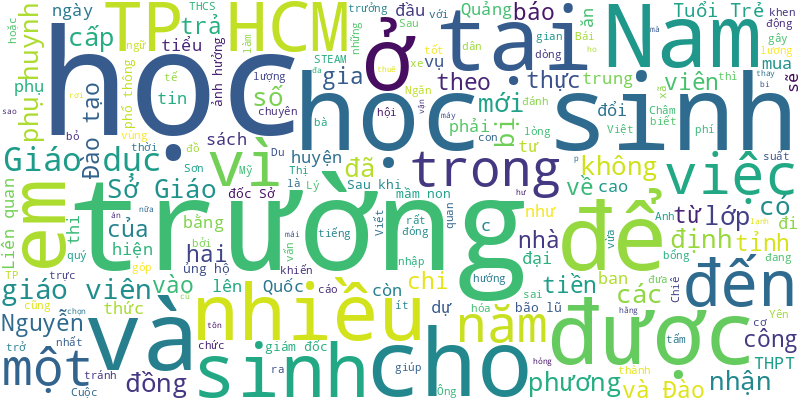
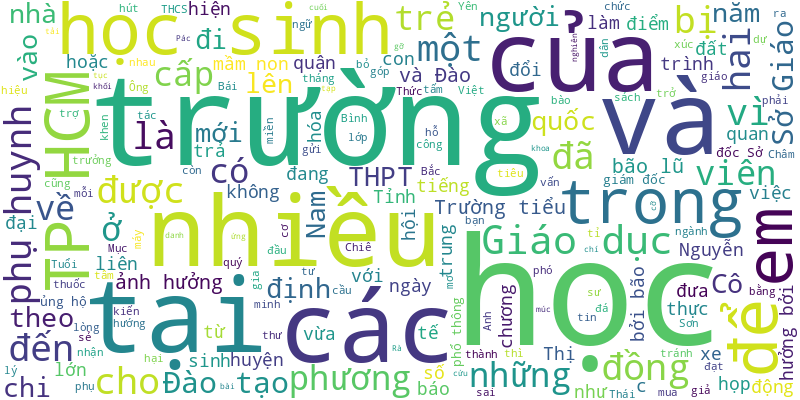
🍀 = 70%

diff --git a/README.md b/README.md
@@ -1,6 +1,17 @@
 # Tuoi Tre RSS 
 
 ## Giáo dục 
+- Nhiều tạp chí quốc tế gỡ bỏ bài báo khoa học của tác giả Việt Nam, từ các nhà nghiên cứu danh tiếng đến các ứng viên giáo sư, phó giáo sư.
+- Những ngày cuối tháng 9, tại điểm trường mầm non Pác Rà, máy xúc đang múc liên tục những khối đất đá lên các xe tải cỡ lớn. Phía trong điểm trường, đất đá ngổn ngang, gương kính vỡ nát...
+- Nhìn người lớn hút thuốc lá điện tử, trẻ em nghĩ không có hại, hoặc hút thuốc để chứng minh mình đã lớn.
+- Nhiều ý kiến giải quyết bạo lực học đường được chính các đại biểu nhí nêu ra trong phiên họp giả định Quốc hội trẻ em.
+- Cô giáo H. (Trường tiểu học Chương Dương, quận 1, TP.HCM), người xin phụ huynh hỗ trợ mua laptop, đã bị tạm đình chỉ đứng lớp theo yêu cầu của Phòng Giáo dục và Đào tạo quận.
+- Thích nghi với toàn cầu hóa, nhiều chương trình học các cấp đã đưa hoạt động giáo dục STEAM vào trong nhà trường và đạt được nhiều hiệu quả tích cực.
+- Thức dậy, cắp sách tới trường là việc làm thường ngày của mỗi học sinh nhưng lại là ước mơ cháy bỏng của cô bé Đặng Khánh Linh...
+- Mục tiêu giai đoạn 2025 - 2030, tỉ lệ người theo học các ngành STEM đạt 35% ở mỗi trình độ đào tạo.
+- Hơn 35 triệu đồng là tấm lòng thầy trò và phụ huynh của Trường THCS-THPT Thái Bình gửi đến đồng bào miền Bắc bị ảnh hưởng bởi bão lũ.
+- Hai nữ sinh Trường THPT Nguyễn Thị Minh Khai (quận 3, TP.HCM) đã làm hai hộp thư tại trường, để những bạn gặp vướng mắc tâm lý có thể gửi thư chia sẻ.
+- Cô bạn thân của tôi đi họp phụ huynh cho con về và “khoe” vừa rời cuộc họp về đến nhà là được đưa vào 3 nhóm Zalo khác nhau.
 - Vì sao rất nhiều trường THPT tại TP.HCM chọn phương án thuê máy lạnh bằng phương thức xã hội hóa thay vì vận động phụ huynh góp tiền để mua?
 - "Chiếc xe đạp cũ mà hai chị em hằng ngày đi học bị mái tôn rơi vào làm hư hỏng, không còn đi được nữa. Em mong có chiếc xe đạp mới để hai chị em đèo nhau đi học".
 - Liên quan đến những thông tin học sinh tại điểm trường Màng Mủ ăn cơm gừng chấm muối, huyện Mù Cang Chải (Yên Bái) vừa có báo cáo sự việc lên UBND tỉnh Yên Bái.
@@ -20,51 +31,41 @@
 - Trả lời phỏng vấn Tuổi Trẻ, GS AARON VOON-YEW THEAN - hiệu trưởng ĐH Quốc gia Singapore - nhận định nhiều trường đại học Việt Nam đang đổi mới chương trình khá tốt theo phương châm hướng về sinh viên.
 - Nhiều chuyên gia tư vấn cần xác định mục tiêu ngay từ đầu năm nhất để tránh phải trả giá bằng việc thôi học giữa chừng hoặc chuyển đổi ngành học hoặc… học đại để ra trường.
 - Theo Bộ trưởng Nguyễn Kim Sơn, để thực hiện được nhiệm vụ đưa tiếng Anh trở thành ngôn ngữ thứ hai trong trường học thì nâng cao chất lượng giáo viên tiếng Anh là hết sức quan trọng.
-- Nhận suất học bổng Ngăn dòng bỏ học từ báo Tuổi Trẻ, nhiều học sinh vùng lũ ở Cao Bằng cho biết sẽ dành số tiền 3 triệu đồng để mua sách vở và đưa bố mẹ để có thêm tiền dựng nhà cửa.
-- Liên quan vụ việc nam phụ huynh xông vào lớp đánh học sinh lớp 8, chiều 25-9, lãnh đạo Phòng Giáo dục và Đào tạo TP Tam Kỳ, Quảng Nam cho biết đã nhận được báo cáo của Trường THCS Nguyễn Du, nơi xảy ra vụ việc.
-- Cuộc thi “STEAM for Girls - STEAM xanh cho nữ sinh 2024” sẽ chính thức khai mạc vào ngày 30-9, tại Victoria School - Nam Sài Gòn (TP.HCM) và kéo dài đến ngày 4-10-2024.
-- Áp lực từ hồ sơ sổ sách, các cuộc thi đến cả trực đêm ở trường khiến giáo viên không còn thời gian để đầu tư cho việc giảng dạy, theo chuyên gia.
-- Sau khi ăn thức ăn mua ở căng tin trường, 23 em học sinh phải nhập viện, nghi bị ngộ độc thực phẩm.
-- Úc đã quyết định giảm thiểu số lượng du học sinh trong năm 2025 xuống đáng kể, khiến không ít sinh viên Việt Nam lo lắng.
-- Sinh viên khó khăn được mượn tiền đóng học phí, không tính lãi, trả gốc sau 2 năm tốt nghiệp.
-- Sau khi nhà trường mời đến làm việc, phụ huynh đánh học sinh lớp 8 ở Quảng Nam cho hay rất hối hận và nhận lỗi.
-- Sau khi Tuổi Trẻ Online đăng bài viết về Nguyễn Tuấn Kiệt (lớp 12A1 Trường THPT Phú Mỹ, tỉnh Bà Rịa - Vũng Tàu), nhiều tấm lòng vàng đã giúp nam sinh này được nhập học.
-- Dự thảo Luật Nhà giáo quy định lương giáo viên được xếp cao nhất trong hệ thống thang bậc lương, được hưởng các phụ cấp và giáo viên mầm non được nghỉ hưu sớm.
-- Ban quản lý ký túc xá Đại học Quốc gia TP.HCM nói phơi đồ ở ban công gây mất mỹ quan, nhưng theo sinh viên, ban công mới có đủ nắng, gió để đồ khô.
 ![Edu](Edu.png)
 ## Thời Sự 
-- Sáng 28-9, Thủ tướng Phạm Minh Chính chủ trì Hội nghị trực tuyến sơ kết, đánh giá, rút kinh nghiệm về công tác phòng chống và khắc phục hậu quả bão số 3.
-- Sáng 28-9, Bộ trưởng Bộ Nội vụ Phạm Thị Thanh Trà đã trình Ủy ban Thường vụ Quốc hội cho ý kiến về đề án thành lập thành phố Huế trực thuộc trung ương.
-- "Tôi áy náy khi nhận bằng khen này vì việc mình làm vừa qua chỉ là bổn phận một người dân bình thường..." - thầy Lê Ngọc Thạch nói tại buổi trao ngày 27-9.
-- Cùng một ngày, Sở Y tế tỉnh Bình Phước và TP.HCM đồng loạt ra thông báo khẩn về việc bị mạo danh để kiểm tra các cơ sở sản xuất, kinh doanh thực phẩm.
-- Khi đoàn tàu gồm 24 toa hàng đến đoạn đường sắt thuộc địa phận thị trấn Lăng Cô (huyện Phú Lộc, Thừa Thiên Huế) thì đầu máy bất ngờ bị trật bánh trong đêm.
-- Một số tin tức đáng chú ý: TP.HCM cấm xe đi 5 đường quận 1 lúc diễn tập xử lý tình huống cháy, nổ; Còn một số quận, huyện ở TP.HCM có tỉ lệ tiêm vắc xin sởi thấp; Saigon Glory mua lại trước hạn hàng trăm tỉ đồng trái phiếu khi đổi chủ...
-- Hôm nay 28-9, thời tiết cả nước ngày nắng, về chiều tối mưa dông, mưa chủ yếu tập trung ở miền Tây Nam Bộ.
-- Sau 17 ngày, lực lượng chức năng tỉnh Lào Cai đã tìm thấy thêm thi thể chị Hoàng Thị Q. (34 tuổi) - nạn nhân mất tích trong vụ lũ quét kinh hoàng tại Làng Nủ.
-- Báo cáo với Hội đồng nhân dân TP.HCM, UBND TP khẳng định sẽ ban hành bảng giá đất điều chỉnh trước ngày 15-10-2024.
-- Việc giải tỏa mặt bằng trong khu đô thị Đại học Quốc gia TP.HCM (làng đại học) gặp nhiều khó khăn.
-- Chiều 27-9, Phó thủ tướng Trần Hồng Hà chủ trì cuộc làm việc với tỉnh Bình Định, các bộ, ngành về đề xuất đầu tư xây dựng mở rộng cảng hàng không Phù Cát.
-- UBND TP.HCM vừa có kế hoạch lập tổ công tác cấp sổ hồng cho tổ chức, cá nhân tại các dự án phát triển nhà ở thương mại trên địa bàn.
-- Chủ đầu tư BOT Phú Hữu (TP Thủ Đức) vừa kiến nghị UBND TP.HCM, Sở Giao thông vận tải về việc mở rộng các trường hợp miễn phí qua trạm với người dân, doanh nghiệp trong khu vực.
-- Không ít trường hợp phải nhập viện điều trị vì tự ý điều trị mụn nhọt sai cách dẫn đến nguy hiểm tính mạng.
-- Sở Xây dựng tỉnh Đồng Nai đề nghị tạm dừng thi công dự án đường ven sông, đoạn qua khu vực biệt thự trăm tuổi Võ Hà Thanh để chờ phương án bảo tồn.
-- Đường bao quanh công viên Đầm Sen (quận 11, TP.HCM) mới làm xong đã lún cục bộ mặt đường, vỉa hè. Sở Giao thông vận tải TP.HCM đề nghị chủ đầu tư sớm khắc phục.
-- Ủy ban Văn hóa, Giáo dục đề nghị Chính phủ có ý kiến chính thức về việc sẽ quy định thanh tra di sản văn hóa ở dự Luật Di sản văn hóa sửa đổi hay sửa nghị định hướng dẫn Luật Thanh tra.
-- Năm học 2024 - 2025 mới bắt đầu, hàng loạt giáo viên tại Đắk Lắk bỗng thành "con nợ" do cấp trên chi sai phụ cấp ưu đãi.
-- Sở Kế hoạch và Đầu tư tỉnh Cà Mau sẽ dành hơn 860 tỉ đồng cho dự án giải phóng mặt bằng để xây dựng mở rộng, nâng cấp sân bay Cà Mau. Khi hoàn thành, sân bay sẽ đón được các loại tàu bay cỡ lớn như A320 và tương đương.
-- Cục Cảnh sát giao thông cho biết vừa ban hành kế hoạch cao điểm bảo đảm trật tự, an toàn giao thông cho lứa tuổi học sinh trên cả nước.
-- Công an vừa phá thành công đường dây mua bán điện thoại giả, khởi tố 7 bị can và thu giữ hơn 6.000 chiếc điện thoại giả.
-- Dự báo mực nước đầu nguồn khu vực Đồng bằng sông Cửu Long tiếp tục tăng nhanh trong 5 ngày tới, cao hơn so với cùng kỳ năm trước từ 0,4 - 0,5m.
-- Công an tỉnh Kiên Giang khởi tố, bắt tạm giam 2 mẹ con tham gia tổ chức khủng bố "Chính phủ quốc gia Việt Nam lâm thời".
-- Các đơn vị sự nghiệp y tế công sẽ trích 10-16% số thu được để lại với đơn vị có mức tự chủ tài chính từ 120% trở lên để cải cách tiền lương.
-- Sau nhiều ngày chìm trong nước lũ, người dân ở Bắc Giang buộc phải chặt bỏ hàng vạn cây vải thiều, cây cam, cây táo chết khô.
-- Những con đường dẫn vào làng đại học (Đại học Quốc gia TP.HCM) khiến sinh viên ngao ngán với chi chít “ổ voi", nhiều đoạn thắt cổ chai.
-- Sáng nay 27-9, thời tiết tại TP.HCM nắng, trời trong, có lúc nắng gắt nhưng chiều nay mây dông hình thành mạnh, mưa nhiều nơi.
-- Chủ quán ốc ‘Tự Nhiên 2’ ở TP Vũng Tàu vừa bị xử phạt hơn 300 triệu đồng vì xả thải gây ô nhiễm biển Bãi Trước.
-- Công an tỉnh Thái Bình đánh giá vụ án liên quan tạp chí Môi trường và Đô thị Việt Nam "trá hình dưới danh nghĩa cơ quan báo chí làm từ thiện".
-- Sau khi Tỉnh ủy Đồng Nai có chủ trương giữ lại biệt thự của đốc phủ Võ Hà Thanh, Sở Xây dựng đã đề xuất 4 phương án để bảo tồn.
+- Điểm đáng chú ý nhất trong Quy hoạch tỉnh Bến Tre thời kỳ 2021 - 2030, tầm nhìn đến năm 2050 là định hướng phát triển về hướng đông.
+- Đây là vụ trật bánh tàu hỏa chở hàng thứ 2 liên tiếp trong vòng chưa đầy 24h và là vụ thứ 6 trong vòng 2 tháng xảy ở Huế.
+- Bão Krathon đang hoạt động ngoài khơi Philippines ban đầu được các mô hình dự báo sẽ vào Biển Đông nhưng đột ngột đổi hướng, vì sao?
+- Một số tin tức đáng chú ý: 6 hành vi bị nghiêm cấm trong công tác xã hội; Ngân hàng 'áp đảo' trong cuộc đua phát hành trái phiếu; Hà Nội tăng diện tích tách thửa đất ở tối thiểu lên 50m2...
+- Hôm nay 29-9, thời tiết Bắc Bộ chuyển mưa, có nơi mưa to. Nghệ An đến Cà Mau ngày nắng, vài nơi nắng nóng.
+- Tối 28-9, 51 cán bộ, chiến sĩ thuộc Bệnh viện dã chiến cấp 2 số 5 (BVDC 2.5) trở về nước sau khi hoàn thành nhiệm vụ tại phái bộ Liên Hiệp Quốc (LHQ) thuộc tỉnh Bentiu, Nam Sudan.
+- Dự án cảng tàu khách quốc tế Nhà Rồng - Khánh Hội do Cảng Sài Gòn đề xuất có tổng mức đầu tư 624,9 tỉ đồng.
+- Người bác sĩ quân y nghẹn ngào ôm mẹ lần cuối sau khi thực hiện di nguyện của bà là hiến giác mạc, mang lại ánh sáng cho người khác.
+- Trước khi đón không khí lạnh vào đầu tháng 10, dự báo từ đêm nay đến hết đêm 30-9, ở Bắc Bộ và Thanh Hóa xảy ra một đợt mưa vừa, mưa to.
+- Chiều 28-9, sau hơn một năm thực hiện nhiệm vụ tại khu vực Abyei (UNISFA), 165 thành viên thuộc Đội Công binh số 2 gìn giữ hòa bình Việt Nam đã hoàn thành xuất sắc nhiệm vụ và về nước an toàn.
+- Ngày 28-9, Lữ đoàn công binh 249 (Binh chủng Công binh) đã hạ thủy 12 ca nô và 20 đốt cầu phao gần cầu Phong Châu.
+- Đơn vị di dời, ngầm hóa lưới điện và cáp viễn thông tái lập mặt đường không tốt khiến đường vành đai Đầm Sen ở quận 11, TP.HCM bị lún một số đoạn.
+- Thức dậy, cắp sách tới trường là việc làm thường ngày của mỗi học sinh nhưng lại là ước mơ cháy bỏng của cô bé Đặng Khánh Linh...
+- Công an TP Phú Quốc ngày 28-9 bắt khẩn cấp Lê Văn Đức (36 tuổi, nhân viên tín dụng của một ngân hàng) để điều tra hành vi lừa đảo chiếm đoạt tài sản.
+- Bất kể bệnh gì, chỉ cần uống nước tại cơ sở này sẽ khỏi bệnh. Nghe lạ lùng là vậy, thế nhưng không ít người 'có bệnh vái tứ phương' vẫn đến tìm 'thần y' để trị bệnh.
+- 'Thế là những lời xưa ba mẹ dặn, ý nguyện của ba mẹ đã thực hiện được, cả nhà thực sự nhẹ lòng', bà Võ Hòa Bình, con gái lớn của Đại tướng Võ Nguyên Giáp và Phu nhân Đặng Bích Hà, chia sẻ.
+- Cột khói đen từ vụ cháy bốc cao hàng trăm mét, người dân cách đó nhiều km cũng có thể nhìn thấy.
+- Đường liên cảng Cát Lái - Phú Hữu (TP.HCM) hoàn thành sẽ giúp tăng kết nối hai cảng. Đồng thời giao thông các đường lân cận cũng được giảm tải.
+- Bài học kinh nghiệm là công tác lãnh đạo phải sát sao, quyết đoán và lựa chọn phương án để hạn chế thấp nhất thiệt hại.
+- Phát hiện một con vật tại khu vực hồ bơi trong khuôn viên khu căn hộ ở phường Thảo Điền (TP Thủ Đức, TP.HCM), một người nước ngoài đã báo cho bảo vệ.
+- Bánh bao, bánh xèo chay có nhân được làm từ đậu phộng, củ hủ dừa, củ cải đỏ, bông điên điển và đậu hũ thơm ngon lạ kỳ, thu hút đông đảo người dân và du khách đến thưởng thức, ăn no mệt nghỉ, hoàn toàn miễn phí.
+- Ngoài phương án mở rộng 5 dự án BOT đường hiện hữu ở TP.HCM, cơ quan chức năng cũng tính toán, nghiên cứu thêm phương án làm đường trên cao.
+- Thường trực Ban Bí thư Lương Cường và nhiều lãnh đạo Đảng, Nhà nước đã đến viếng phó giáo sư Đặng Bích Hà, phu nhân Đại tướng Võ Nguyên Giáp.
+- Phó cục trưởng Cục Kiểm soát thủ tục hành chính Nguyễn Duy Hoàng từng cho biết ông nhận ý kiến cho rằng dịch vụ công trực tuyến tạo thêm gánh nặng.
+- Đó là thông tin được đưa ra tại ngày hội việc làm lao động cho thanh niên năm 2024 tổ chức sáng 28-9.
+- Tổng thiệt hại kinh tế do bão số 3 (Yagi) và hoàn lưu bão ước tính sơ bộ trên 81.000 tỉ đồng, tương đương gần 3,3 tỉ USD.
+- 100% thành viên Ủy ban Thường vụ Quốc hội có mặt đã thống nhất thông qua phương án sáp nhập huyện xã của TP Cần Thơ và 12 tỉnh.
+- Hẻm 45 đường Lê Cơ ngập nước nửa tháng chưa rút. UBND phường An Lạc (quận Bình Tân, TP.HCM) đang huy động máy bơm để khơi thông dòng chảy.
+- Một trong những khó khăn là chưa tính toán, dự báo được gió giật mạnh cấp 17 trên đất liền - là cấp chưa từng ra trong lịch sử.
+- Dự báo từ nay đến cuối năm, khả năng có 4-5 cơn bão, áp thấp nhiệt đới hoạt động trên Biển Đông, trong đó có 2-3 cơn đổ bộ vào đất liền.
 ![New](News.png)
 ## Nhịp sống số 
+- Viettel đang tăng tốc chuyển đổi cho 500.000 thuê bao 2G cuối cùng trước ngày tắt sóng 15-10.
 - FPT Shop mở bán iPhone 16 Series trên toàn quốc
 - Intel công bố ra mắt sản phẩm chip AI mới, cạnh tranh với các đối thủ AMD và Nvidia.
 - Thông tin được ông Nguyễn Minh Hồng - chủ tịch Hội Truyền thông số Việt Nam - đưa ra tại hội thảo an toàn thông tin trong chuyển đổi số ngày 24-9, tại Cần Thơ.
@@ -94,5 +95,4 @@
 - Theo Open AI, việc giao tiếp nhiều với ChatGPT có thể khiến người dùng trở nên kém khéo léo hoặc ít muốn tương tác với con người hơn.
 - Sự cố mới đây của Gmail khiến hàng nghìn người không thể gửi email hoặc tin nhắn thông qua dịch vụ này.
 - Sở Cảnh sát thành phố Tulsa, bang Oklahoma (Mỹ) cảnh báo nguy cơ từ pin sạc dự phòng, sau khi một con chó nhai cục sạc dự phòng gây cháy nhà.
-- Việc lướt điện thoại và tiếp xúc với ánh sáng xanh có thực sự gây hại cho làn da bạn không? Và việc thoa kem dưỡng có giúp ích không?
 ![life](Life.png)
